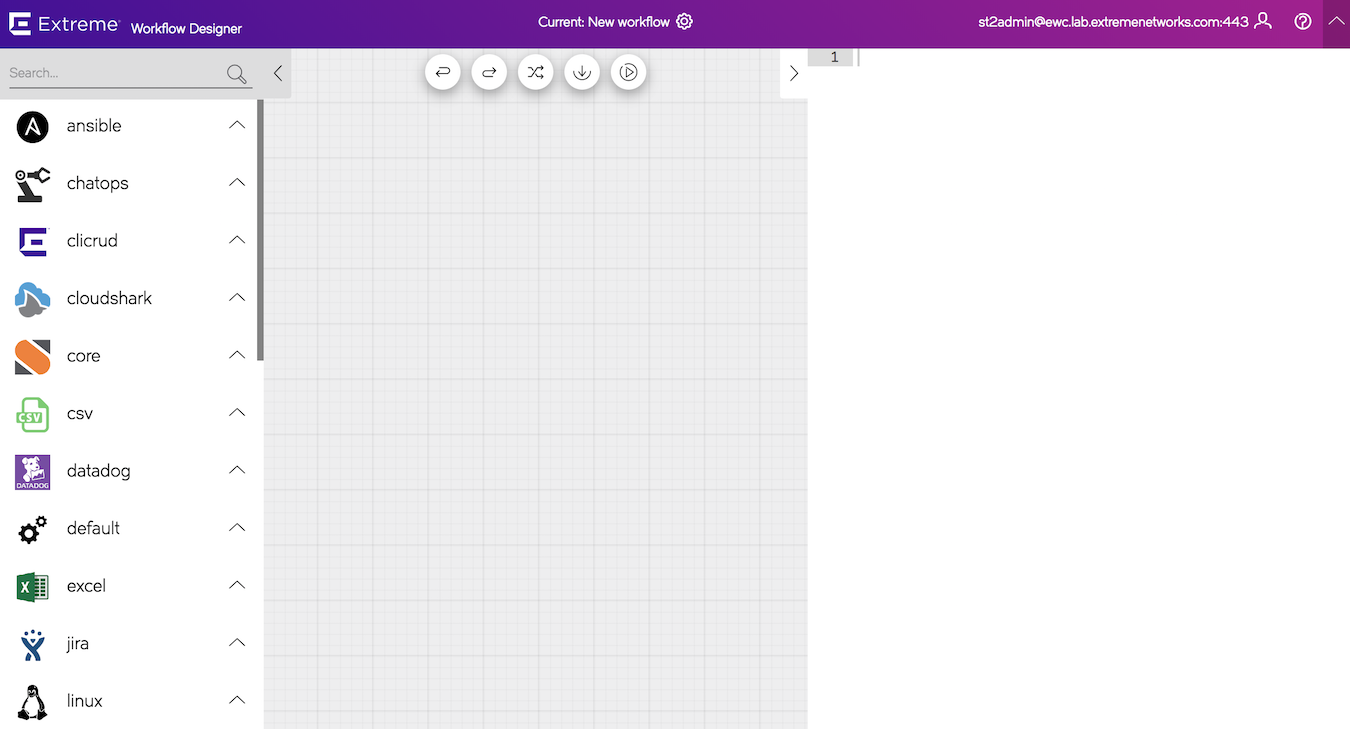
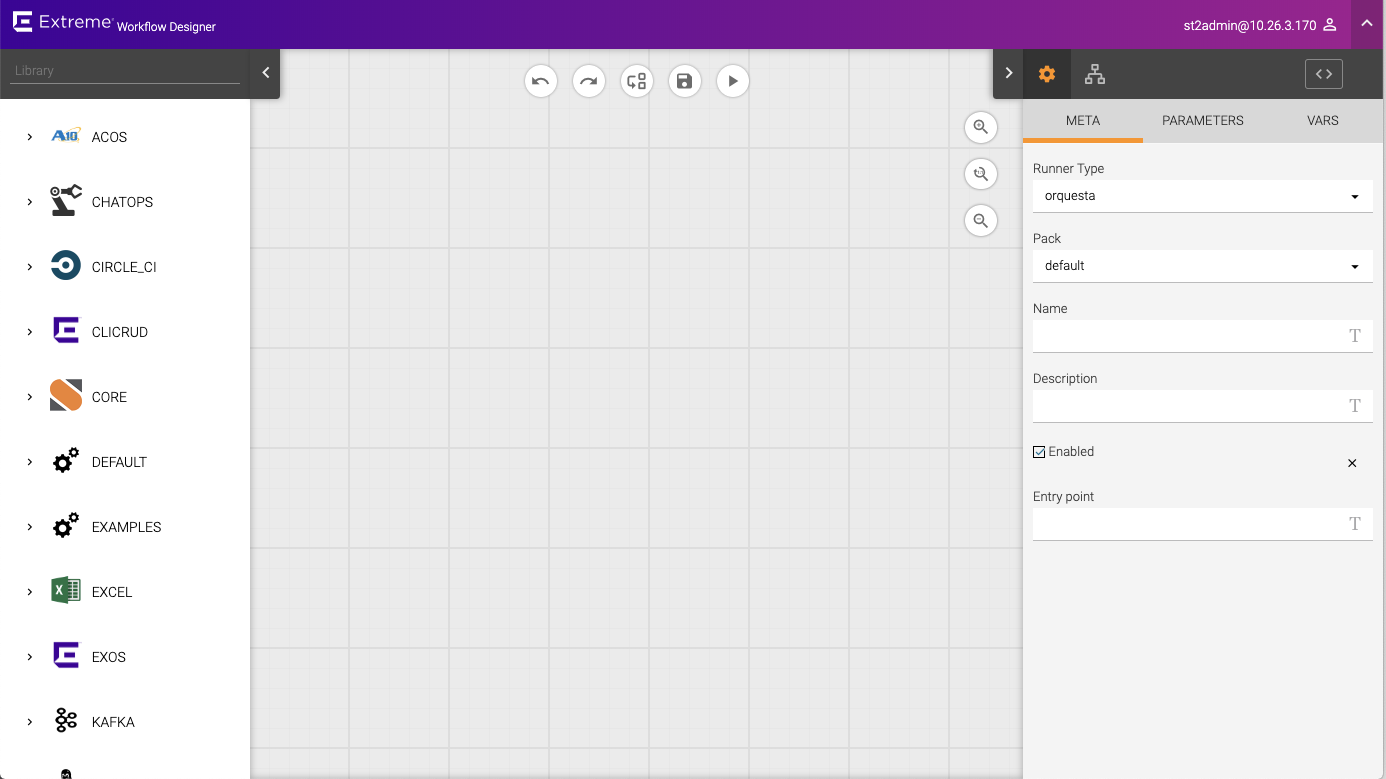
Updated Workflow Designer docs for 3.0

diff --git a/docs/source/flow.rst b/docs/source/flow.rst
@@ -1,121 +1,223 @@
 Workflow Designer
 =================
 
-Workflow Designer is an HTML5-based graphical tool for managing workflows.  Using a web browser,
-users can quickly create new workflows and modify existing ones. 
+Workflow Designer is a web-based GUI for creating and editing :doc:`Orquesta </orquesta/index>`
+and :doc:`Mistral </mistral>` workflows. Using a web browser, you can visualize existing workflows,
+and create new ones.
 
-Workflow Designer provides a graphical representation of workflow, side-by-side with the underlying code.
-Users can quickly add new actions to the workflow, and connect them together. Updates to the graphical 
-workflow are immediately reflected in the code, and vice-versa.
-
-.. figure:: /_static/images/flow/workflow_designer.png
+.. image:: /_static/images/flow/pkg_promote_workflow.png
     :align: center
 
-Workflow Designer is launched from the main |ewc| Web UI. First login to https://YOUR_HOST_IP/.
-You can launch Designer in two different ways - either by creating a new workflow, or by editing an
-existing workflow:
+All your workflows are still stored as code on your system, but the GUI simplifies the workflow
+development process. Updates to the graphical view are immediately updated in the underlying code,
+and vice-versa.
+
+.. contents:: Contents
+   :local:
+
+
+Launching Workflow Designer
+---------------------------
+
+Launch Workflow Designer from the main |ewc| Web UI. First login to your |ewc| system at
+https://YOUR_HOST_IP/. You can launch Designer in two different ways - either by creating a new
+workflow, or by editing an existing workflow:
 
 Create a New Workflow
----------------------
+~~~~~~~~~~~~~~~~~~~~~
 
 From the Web UI, click on the "Actions" button at the top of the screen. From there, click the round
 "+" button at the bottom center of the screen:
 
-.. figure:: /_static/images/flow/launch_designer.png
+.. image:: /_static/images/flow/launch_designer.png
     :align: center
 
 This will launch Workflow Designer with a new, blank workflow:
 
-.. figure:: /_static/images/flow/new_workflow.png
+.. image:: /_static/images/flow/new_workflow.png
     :align: center
 
-.. note::
-    Note: You must set a name for the workflow before you can save it. Click on the "gears" icon
-    at the top centre to access workflow settings. Here you can specify which pack the workflow
-    belongs to, and its name.
-
 Edit an Existing Workflow
--------------------------
+~~~~~~~~~~~~~~~~~~~~~~~~~
 
-You can also edit existing workflows
+You can also edit existing workflows. Using the |ewc| Web UI, go the Actions tab, and navigate to
+an Orquesta or Mistral workflow. Select the workflow and click "Edit" at the right of the workflow details pane:
 
-.. note::
-  Note that Workflow Designer can only be used to edit :doc:`mistral` workflows. It can not be
-  used to edit :doc:`actionchain` workflows.
-
-Using the |ewc| Web UI, go the Actions tab, and navigate to a mistral-v2 workflow. Select the workflow
-and click "Edit" at the right of the workflow details pane:
-
-.. figure:: /_static/images/flow/existing_workflow.png
+.. image:: /_static/images/flow/existing_workflow.png
     :align: center
 
 This will launch a new browser tab with your workflow:
 
-.. figure:: /_static/images/flow/bgp_workflow.png
+.. image:: /_static/images/flow/pkg_promote_workflow.png
     :align: center
+
 
 Using Workflow Designer
 -----------------------
 
-Add Action
-~~~~~~~~~~
+The interface has three main parts: the Library of installed actions, the Workflow Canvas, and the Details panel.
 
-The left-hand side of the screen shows all available actions installed on this system,
-grouped by pack. You can search for actions, and drag them into the centre. Do this with
-all the actions you need.
+The Library shows all installed actions. You can filter from the list, or just scroll to a pack, and
+pick an action. Drag it onto the canvas to add it to the workflow.
 
-Link Actions
-~~~~~~~~~~~~
+The Workflow Canvas has buttons for Undo, Redo, Redraw, Save and Run:
 
-Actions can be linked together to form complex workflows. The workflow can take different
-branches, depending on whether a step succeeds or fails. To link actions together, hover
-over an action. You will see three icons appear beneath the action:
-
-.. figure:: /_static/images/flow/action_options.png
+ .. image:: /_static/images/flow/workflow_toolbar.png
     :align: center
 
-These represent paths to take "on-success", "on-error" or "on-complete". Click and hold
-on an option, then move your mouse to the next action you want to link to. Release your mouse,
-and a new link will be added.
+You can undo or redo multiple steps. Redraw will automatically lay out the workflow. Warning: this
+will change your saved positions!
 
-It is a common pattern to take different paths for success or error. This allows you to build
-complex workflows.
+You must "Save" the workflow before you can run it. Clicking "Save" will save the workflow and its
+metadata to disk and the |ewc| database.
 
-Edit/Remove Action
-~~~~~~~~~~~~~~~~~~
+If your workflow requires inputs, clicking "Run" will prompt for them:
 
-Clicking on the "Pen" icon on an action will let you rename the action.
+ .. image:: /_static/images/flow/run_workflow.png
+    :align: center
 
-Click on the "X" on an action and it will be removed from the canvas.
+You can also adjust or reset the zoom, using the buttons on the right-hand side of the canvas:
 
-.. note::
-  All the above steps - adding, linking, editing actions - can also be done using the code
-  window on the right-hand side. Changes made to the code are immediately reflected in the
-  central pane. Similarly, changes made in the central pane are immediately updated in the
-  code.
+ .. image:: /_static/images/flow/zoom.png
+    :align: center
 
-Settings
+Metadata
 ~~~~~~~~
 
-Click on the "gears" icon at the top centre to access workflow settings. Here you can
-specify which pack the workflow belongs to, its name, and whether it should be enabled:
+The "Metadata" defines data about the workflow, rather than the workflow itself.
 
-.. figure:: /_static/images/flow/workflow_settings.png
+This is defined in the "Meta" tab of the Details panel:
+
+ .. image:: /_static/images/flow/metadata.png
     :align: center
 
-You can also add input parameters to the workflow, to allow sensors and other actions
-to pass data into this workflow.
 
-Toolbar
-~~~~~~~
+All workflows must have a Runner Type. The default is "Orquesta" - we recommend this for all new
+workflows. Mistral will be deprecated in a future release.
 
-The toolbar at the top of the canvas provides quick access to these actions:
+You **must** choose a workflow name. This will be how you reference the workflow in future with
+``st2 run``, or as part of another workflow.
 
- * **Undo**: undo previous actions. Click multiple times to go back multiple steps.
- * **Redo**: redo the action that was just undron. Click multiple times to go forward multiple steps.
- * **Redraw**: re-draw the workflow layout to suit the current screen size.
- * **Save**: save the workflow to the database.
- * **Run**: manually run the workflow.
+If you do not choose a pack, the "default" pack is used. We recommend using your own pack.
 
- .. figure:: /_static/images/flow/workflow_toolbar.png
-    :align: center
+The Description is optional. It's a good idea to set this - it will remind future you what this
+workflow does.
+
+The "Entry point" is the file the workflow is saved to. Typically this is
+``workflows/<workflow_name>.yaml``. This will be used if you do not pick a custom entry point.
+
+Parameters
+~~~~~~~~~~
+
+Parameters are used as inputs to your workflow. They can be used to pass in dynamic information
+when you run this workflow. Most workflows will have at least one input parameter.
+
+To add Parameters, go to the Parameters tab. Click "Add Parameter":
+
+.. image:: /_static/images/flow/parameters.png
+   :align: center
+
+You must provide a name, and a type (string, boolean, number, object, integer, array). You can mark
+the parameter as "Required" - that is, it **must** be provided when the workflow is run, and you
+can provide a default value if one is not provided. You can also mark the parameter as "secret",
+so it is masked in logs.
+
+For more information about parameters, see the :doc:`Actions </actions>` documentation.
+
+Tasks
+~~~~~
+
+The Library on the left shows actions installed on this system that can be added to your workflow.
+These are grouped by Pack. If you want to install more actions, check the "Packs" tab in the Web UI.
+
+You can filter from the available list of actions by typing in a partial keyword, e.g.:
+
+.. image:: /_static/images/flow/filtered_actions.png
+   :align: center
+
+Find the actions you want to use in your workflow, and drag them onto the canvas. Repeat as required.
+
+.. image:: /_static/images/flow/basic_workflow.png
+   :align: center
+
+To configure a task, select it. You can then use the Details panel to rename the task, and configure
+task parameters, properties and transitions.
+
+.. image:: /_static/images/flow/task_parameters.png
+   :align: center
+
+To rename a task, click "Edit", and rename.
+
+Input parameters can use hard-coded values, or use other variables available, such as input parameters.
+For Orquesta workflows, this might look like ``<% ctx().my_input %>``.
+
+The "Properties" tab lets you set advanced controls, such as "with-items" - to run multiple actions
+across a list of inputs, and "Join", to wait for parallel tasks to complete before proceeding.
+
+The Transitions tab lets you control Transition behavior - which tasks should we execute next, under
+which conditions? See below for more.
+
+To delete a task, select it, then click the "Trash" icon:
+
+.. image:: /_static/images/flow/delete_task.png
+   :align: center
+
+
+Transitions
+~~~~~~~~~~~
+
+Transitions are how we move from one task to another. Orquesta gives us powerful controls over task
+transition. We can choose simple success/failure paths, or we can branch based upon conditions such
+as returned result values.
+
+We can run multiple actions in parallel, or we can run sequential actions. Using the "join" option,
+we can wait for parallel tasks to complete, before proceeding.
+
+Workflow Designer lets us draw transitions between tasks, add conditions, and even set colors for the
+transition arrow. After all, it's not just as simple as "Green for success, Red for failure."
+
+To add a transition, select a task:
+
+.. image:: /_static/images/flow/task_selected.png
+   :align: center
+
+Click and drag the connector to the next task you want to transition to. You can repeat this multiple
+times if you have multiple transitions:
+
+.. image:: /_static/images/flow/transition_added.png
+   :align: center
+
+By default, new transitions have no criteria. That is, they will always transition to the next task
+upon completion. Common criteria to add is ``<% succeeded() %>`` or ``<% failed() %>``, for simple
+success/failure. More complex criteria can branch based upon other variables - for example if a task result has more than 3 entries. See the :doc:`Orquesta
+documentation</orquesta/languages/orquesta>` for more details.
+
+You can also choose the transition arrow color. Pick a color from the drop-down selector, or type
+in a `color name or hex code <https://htmlcolorcodes.com>`_:
+
+.. image:: /_static/images/flow/transitions.png
+   :align: center
+
+Transitions often include publishing some or all of the task result. It can then be used as
+an input to future tasks.
+
+To publish a value, select the transition, then enable the "Publish" option. Give it a name, and
+the item you want to publish. Typically this will be ``<% result().<something> %>``, e.g.:
+
+.. image:: /_static/images/flow/publish_status_code.png
+   :align: center
+
+We can now refer to ``<% ctx().status_code %>`` elsewhere in our workflows - for example, we could
+use it as part of the message we send via ``chatops.post_message``.
+
+To remove a transition, select the transition arrow, then click the "Trash" icon to remove it.
+
+Code View
+~~~~~~~~~
+
+Workflow Designer is a visual tool for creating and editing workflows. But the workflows themselves
+are always stored as code. You can switch to this code view by clicking the icon at the top right
+of the details panel:
+
+.. image:: /_static/images/flow/code_view.png
+   :align: center
